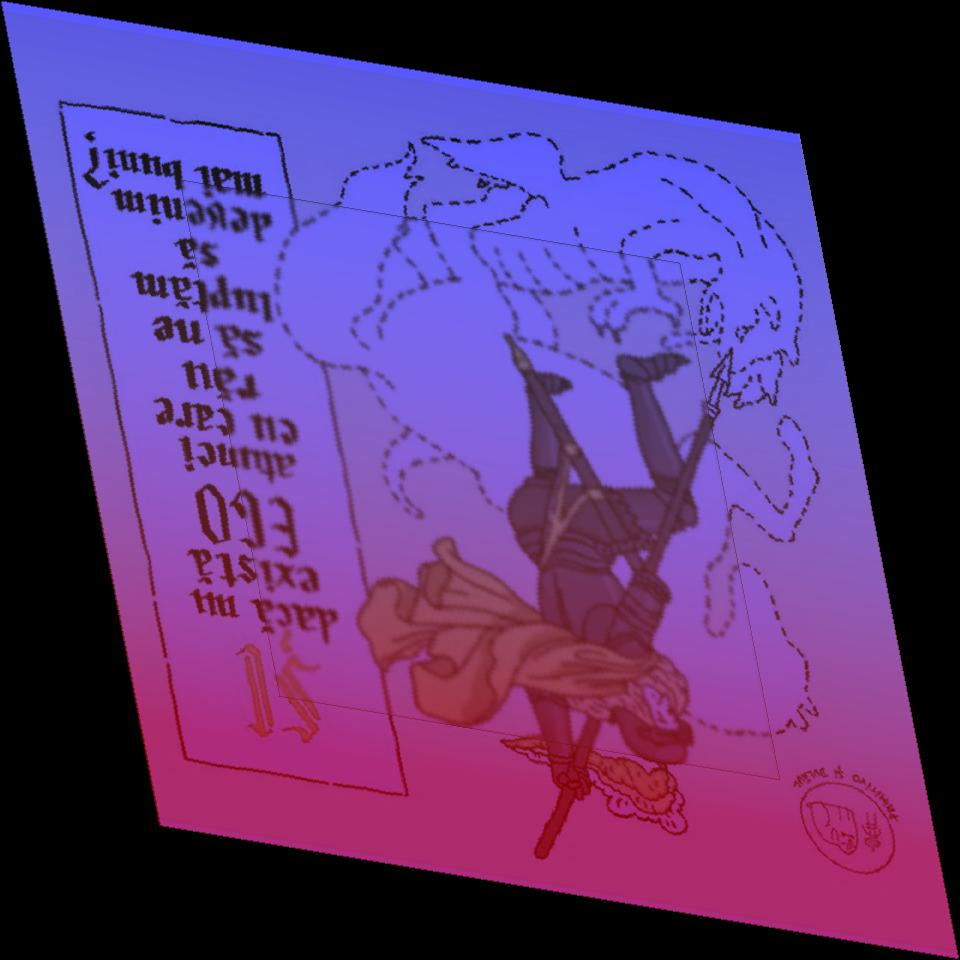
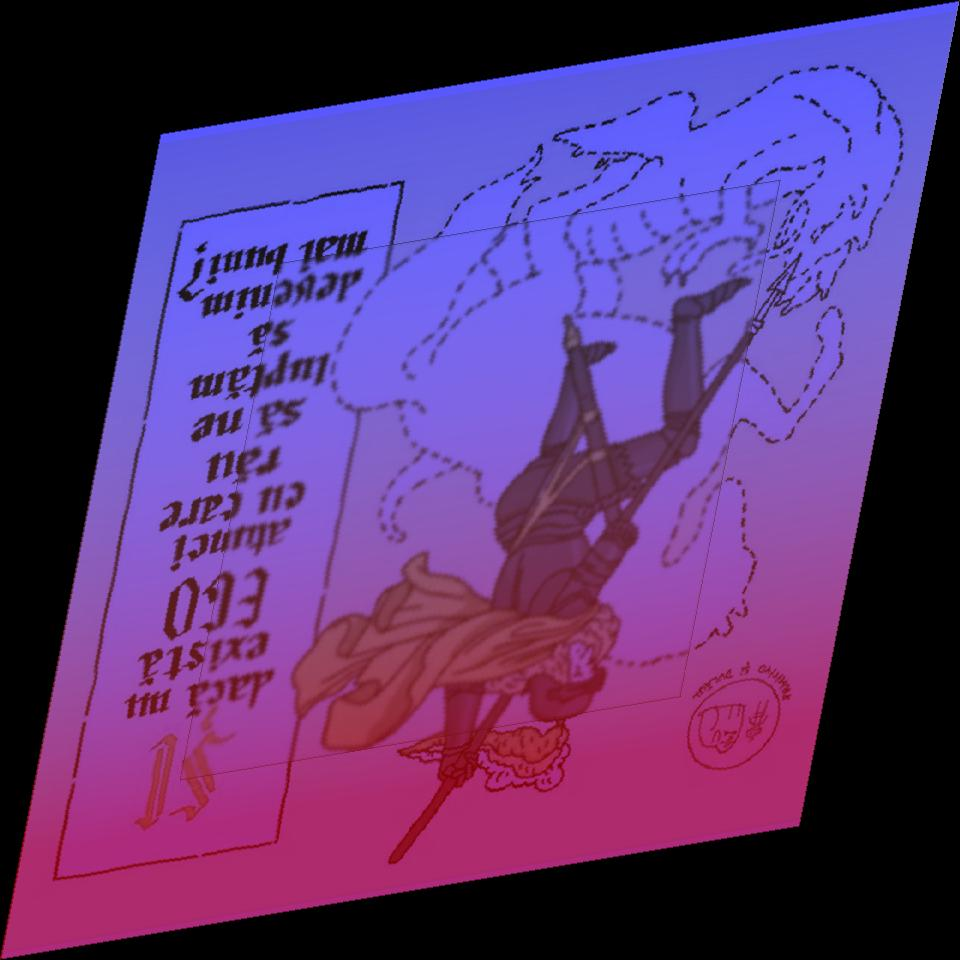
Extended sheading functions to support negative sheadin factors; Refactored interpolation functions to support negative numbers also

diff --git a/lib/shear.go b/lib/shear.go
@@ -6,6 +6,7 @@ import(
     "image/color"
     "math"
     interp "./interpolation"
+    aux "./auxiliaries"
 )
 
 const (
@@ -32,11 +33,11 @@ func xshear(img image.Image, shear float64) (image.Image) {
     bounds := img.Bounds()
 
     // calculate some shearing parameters
-    shear_factor := uint32(math.Round(shear * float64(bounds.Max.X - bounds.Min.X) * 2))
+    shear_factor := int(math.Round(shear * float64(bounds.Max.X - bounds.Min.X) * 2))
     height := bounds.Max.Y - bounds.Min.Y + 1
 
     // initialize the new image
-    new_bounds := image.Rect(bounds.Min.X, bounds.Min.Y, bounds.Max.X + int(shear_factor), bounds.Max.Y)
+    new_bounds := image.Rect(bounds.Min.X, bounds.Min.Y, bounds.Max.X + aux.Abs(shear_factor), bounds.Max.Y)
     ret := image.Image(image.NewRGBA(new_bounds))
     ret = Modify_opacity(ret, 0)
 
@@ -51,12 +52,12 @@ func xshear(img image.Image, shear float64) (image.Image) {
             for y := bounds.Min.Y + rank; y <= bounds.Max.Y; y += n {
                 // calculate padding
                 proc := float64(y - bounds.Min.Y) / float64(height)
-                padding := int(interp.Linear_interpolation(0, shear_factor, proc))
+                padding := int(interp.Linear_interpolation(0, int32(shear_factor), proc))
 
                 for x := bounds.Min.X; x <= bounds.Max.X; x++ {
                     r, g, b, a := img.At(x, y).RGBA()
 
-                    ret.(draw.Image).Set(x + padding, y, color.RGBA{uint8(r >> 8), uint8(g >> 8), uint8(b >> 8), uint8(a >> 8)})
+                    ret.(draw.Image).Set(x + padding - aux.Min(shear_factor, 0), y, color.RGBA{uint8(r >> 8), uint8(g >> 8), uint8(b >> 8), uint8(a >> 8)})
                 }
             }
 
@@ -79,11 +80,11 @@ func yshear(img image.Image, shear float64) (image.Image) {
     bounds := img.Bounds()
 
     // calculate some shearing parameters
-    shear_factor := uint32(math.Round(shear * float64(bounds.Max.Y - bounds.Min.Y) * 2))
+    shear_factor := int(math.Round(shear * float64(bounds.Max.Y - bounds.Min.Y) * 2))
     width := bounds.Max.X - bounds.Min.X + 1
 
     // initialize the new image
-    new_bounds := image.Rect(bounds.Min.X, bounds.Min.Y, bounds.Max.X, bounds.Max.Y + int(shear_factor))
+    new_bounds := image.Rect(bounds.Min.X, bounds.Min.Y, bounds.Max.X, bounds.Max.Y + aux.Abs(shear_factor))
     ret := image.Image(image.NewRGBA(new_bounds))
     ret = Modify_opacity(ret, 0)
 
@@ -91,7 +92,7 @@ func yshear(img image.Image, shear float64) (image.Image) {
     paddings := make([]int, width)
     for x := bounds.Min.X; x <= bounds.Max.X; x++ {
         proc := float64(x - bounds.Min.X) / float64(width)
-        paddings[x - bounds.Min.X] = int(interp.Linear_interpolation(0, shear_factor, proc))
+        paddings[x - bounds.Min.X] = int(interp.Linear_interpolation(0, int32(shear_factor), proc))
     }
 
     n := 10
@@ -106,7 +107,7 @@ func yshear(img image.Image, shear float64) (image.Image) {
                 for x := bounds.Min.X; x <= bounds.Max.X; x++ {
                     r, g, b, a := img.At(x, y).RGBA()
 
-                    ret.(draw.Image).Set(x, y + paddings[x - bounds.Min.X], color.RGBA{uint8(r >> 8), uint8(g >> 8), uint8(b >> 8), uint8(a >> 8)})
+                    ret.(draw.Image).Set(x, y + paddings[x - bounds.Min.X] - aux.Min(shear_factor, 0), color.RGBA{uint8(r >> 8), uint8(g >> 8), uint8(b >> 8), uint8(a >> 8)})
                 }
             }
 

diff --git a/lib/auxiliaries/pixel_interpolation.go b/lib/auxiliaries/pixel_interpolation.go
@@ -13,10 +13,10 @@ type Pixel struct {
     segment delimited by the  2 pixels.
 */
 func Pixel_linear_interpolation(px1, px2 Pixel, x float64) (Pixel) {
-    r_aux := interp.Linear_interpolation(px1.R, px2.R, x)
-    g_aux := interp.Linear_interpolation(px1.G, px2.G, x)
-    b_aux := interp.Linear_interpolation(px1.B, px2.B, x)
-    a_aux := interp.Linear_interpolation(px1.A, px2.A, x)
+    r_aux := uint32(interp.Linear_interpolation(int32(px1.R), int32(px2.R), x))
+    g_aux := uint32(interp.Linear_interpolation(int32(px1.G), int32(px2.G), x))
+    b_aux := uint32(interp.Linear_interpolation(int32(px1.B), int32(px2.B), x))
+    a_aux := uint32(interp.Linear_interpolation(int32(px1.A), int32(px2.A), x))
 
     return Pixel{r_aux, g_aux, b_aux, a_aux}
 }
@@ -26,10 +26,10 @@ func Pixel_linear_interpolation(px1, px2 Pixel, x float64) (Pixel) {
     square delimited by the 2 pixels.
 */
 func Pixel_bilinear_interpolation(px11, px12, px21, px22 Pixel, x, y float64) (Pixel) {
-    r_aux := interp.Bilinear_interpolation(px11.R, px12.R, px21.R, px22.R, x, y)
-    g_aux := interp.Bilinear_interpolation(px11.G, px12.G, px21.G, px22.G, x, y)
-    b_aux := interp.Bilinear_interpolation(px11.B, px12.B, px21.B, px22.B, x, y)
-    a_aux := interp.Bilinear_interpolation(px11.A, px12.A, px21.A, px22.A, x, y)
+    r_aux := uint32(interp.Bilinear_interpolation(int32(px11.R), int32(px12.R), int32(px21.R), int32(px22.R), x, y))
+    g_aux := uint32(interp.Bilinear_interpolation(int32(px11.G), int32(px12.G), int32(px21.G), int32(px22.G), x, y))
+    b_aux := uint32(interp.Bilinear_interpolation(int32(px11.B), int32(px12.B), int32(px21.B), int32(px22.B), x, y))
+    a_aux := uint32(interp.Bilinear_interpolation(int32(px11.A), int32(px12.A), int32(px21.A), int32(px22.A), x, y))
 
 return Pixel{r_aux, g_aux, b_aux, a_aux}
 }

diff --git a/lib/interpolation/linear_interpolation.go b/lib/interpolation/linear_interpolation.go
@@ -8,11 +8,11 @@ import "math"
     v2 - value in second point
     x - [0, 1]
 */
-func Linear_interpolation(v1, v2 uint32, x float64) uint32 {
-    return uint32(math.Floor((float64(v1) * (1 - x)) + (float64(v2) * x)))
+func Linear_interpolation(v1, v2 int32, x float64) int32 {
+    return int32(math.Floor((float64(v1) * (1 - x)) + (float64(v2) * x)))
 }
 
-func Bilinear_interpolation(p11, p12, p21, p22 uint32, x, y float64) uint32 {
+func Bilinear_interpolation(p11, p12, p21, p22 int32, x, y float64) int32 {
     p1 := Linear_interpolation(p11, p12, x)
     p2 := Linear_interpolation(p21, p22, x)
 

diff --git a/lib/interpolation/cubic_interpolation.go b/lib/interpolation/cubic_interpolation.go
@@ -8,7 +8,7 @@ import "math"
     v2 - value in second point
     x - [-1, 2]
 */
-func Cubic_interpolation(p0, p1, p2, p3 uint32, x float64) uint32 {
+func Cubic_interpolation(p0, p1, p2, p3 int32, x float64) int32 {
     p0f := float64(p0)
     p1f := float64(p1)
     p2f := float64(p2)
@@ -19,5 +19,5 @@ func Cubic_interpolation(p0, p1, p2, p3 uint32, x float64) uint32 {
     x1 := float64(-1 * p0f / 2 + p2f / 2) * x
     x0 := p1f
 
-    return uint32(math.Floor(x3 + x2 + x1 + x0))
+    return int32(math.Floor(x3 + x2 + x1 + x0))
 }

diff --git a/handler.go b/handler.go
@@ -36,8 +36,8 @@ func main() {
 
     card = lib.Merge(card, grd, image.Rect(0, 0, 800, 800))
 
-    card = lib.Shear(card, 0.1, lib.XSHEAR)
-    card = lib.Shear(card, 0.1, lib.YSHEAR)
+    card = lib.Shear(card, -0.1, lib.XSHEAR)
+    card = lib.Shear(card, -0.1, lib.YSHEAR)
 
     rez, _ := os.Create("new.jpg")
     defer rez.Close()

diff --git a/lib/auxiliaries/int_math_func.go b/lib/auxiliaries/int_math_func.go
@@ -1,0 +1,15 @@
+package auxiliaries
+
+func Abs(x int) int {
+	if x < 0 {
+		return -x
+	}
+	return x
+}
+
+func Min(x, y int) int {
+    if x < y {
+        return x
+    }
+    return y
+}
